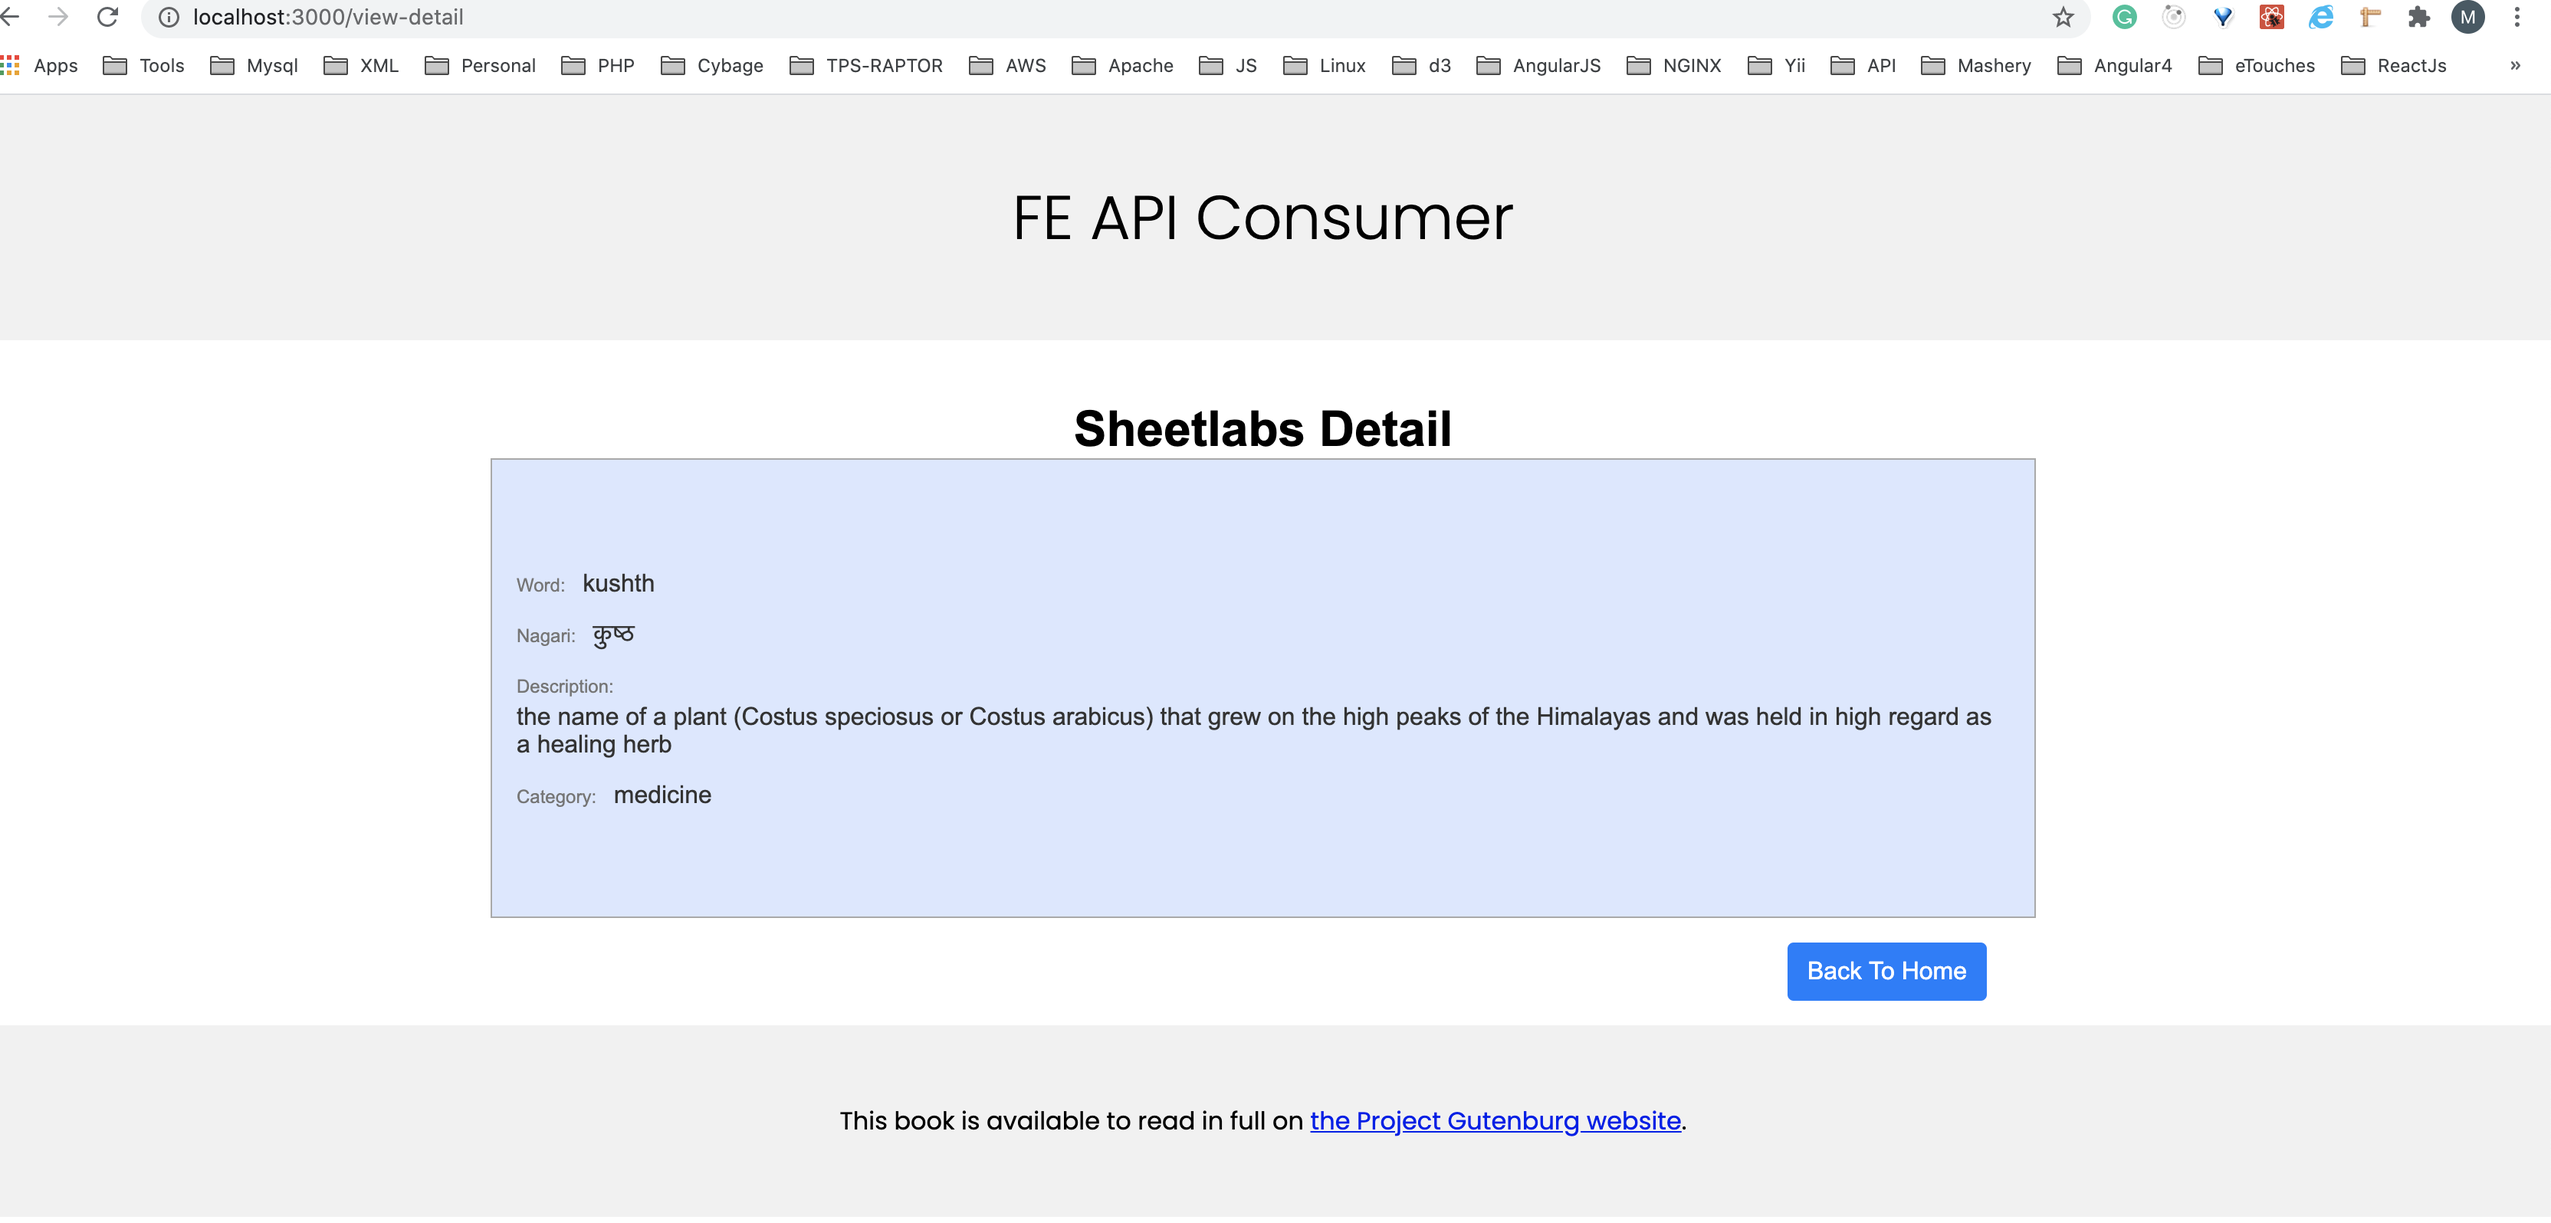
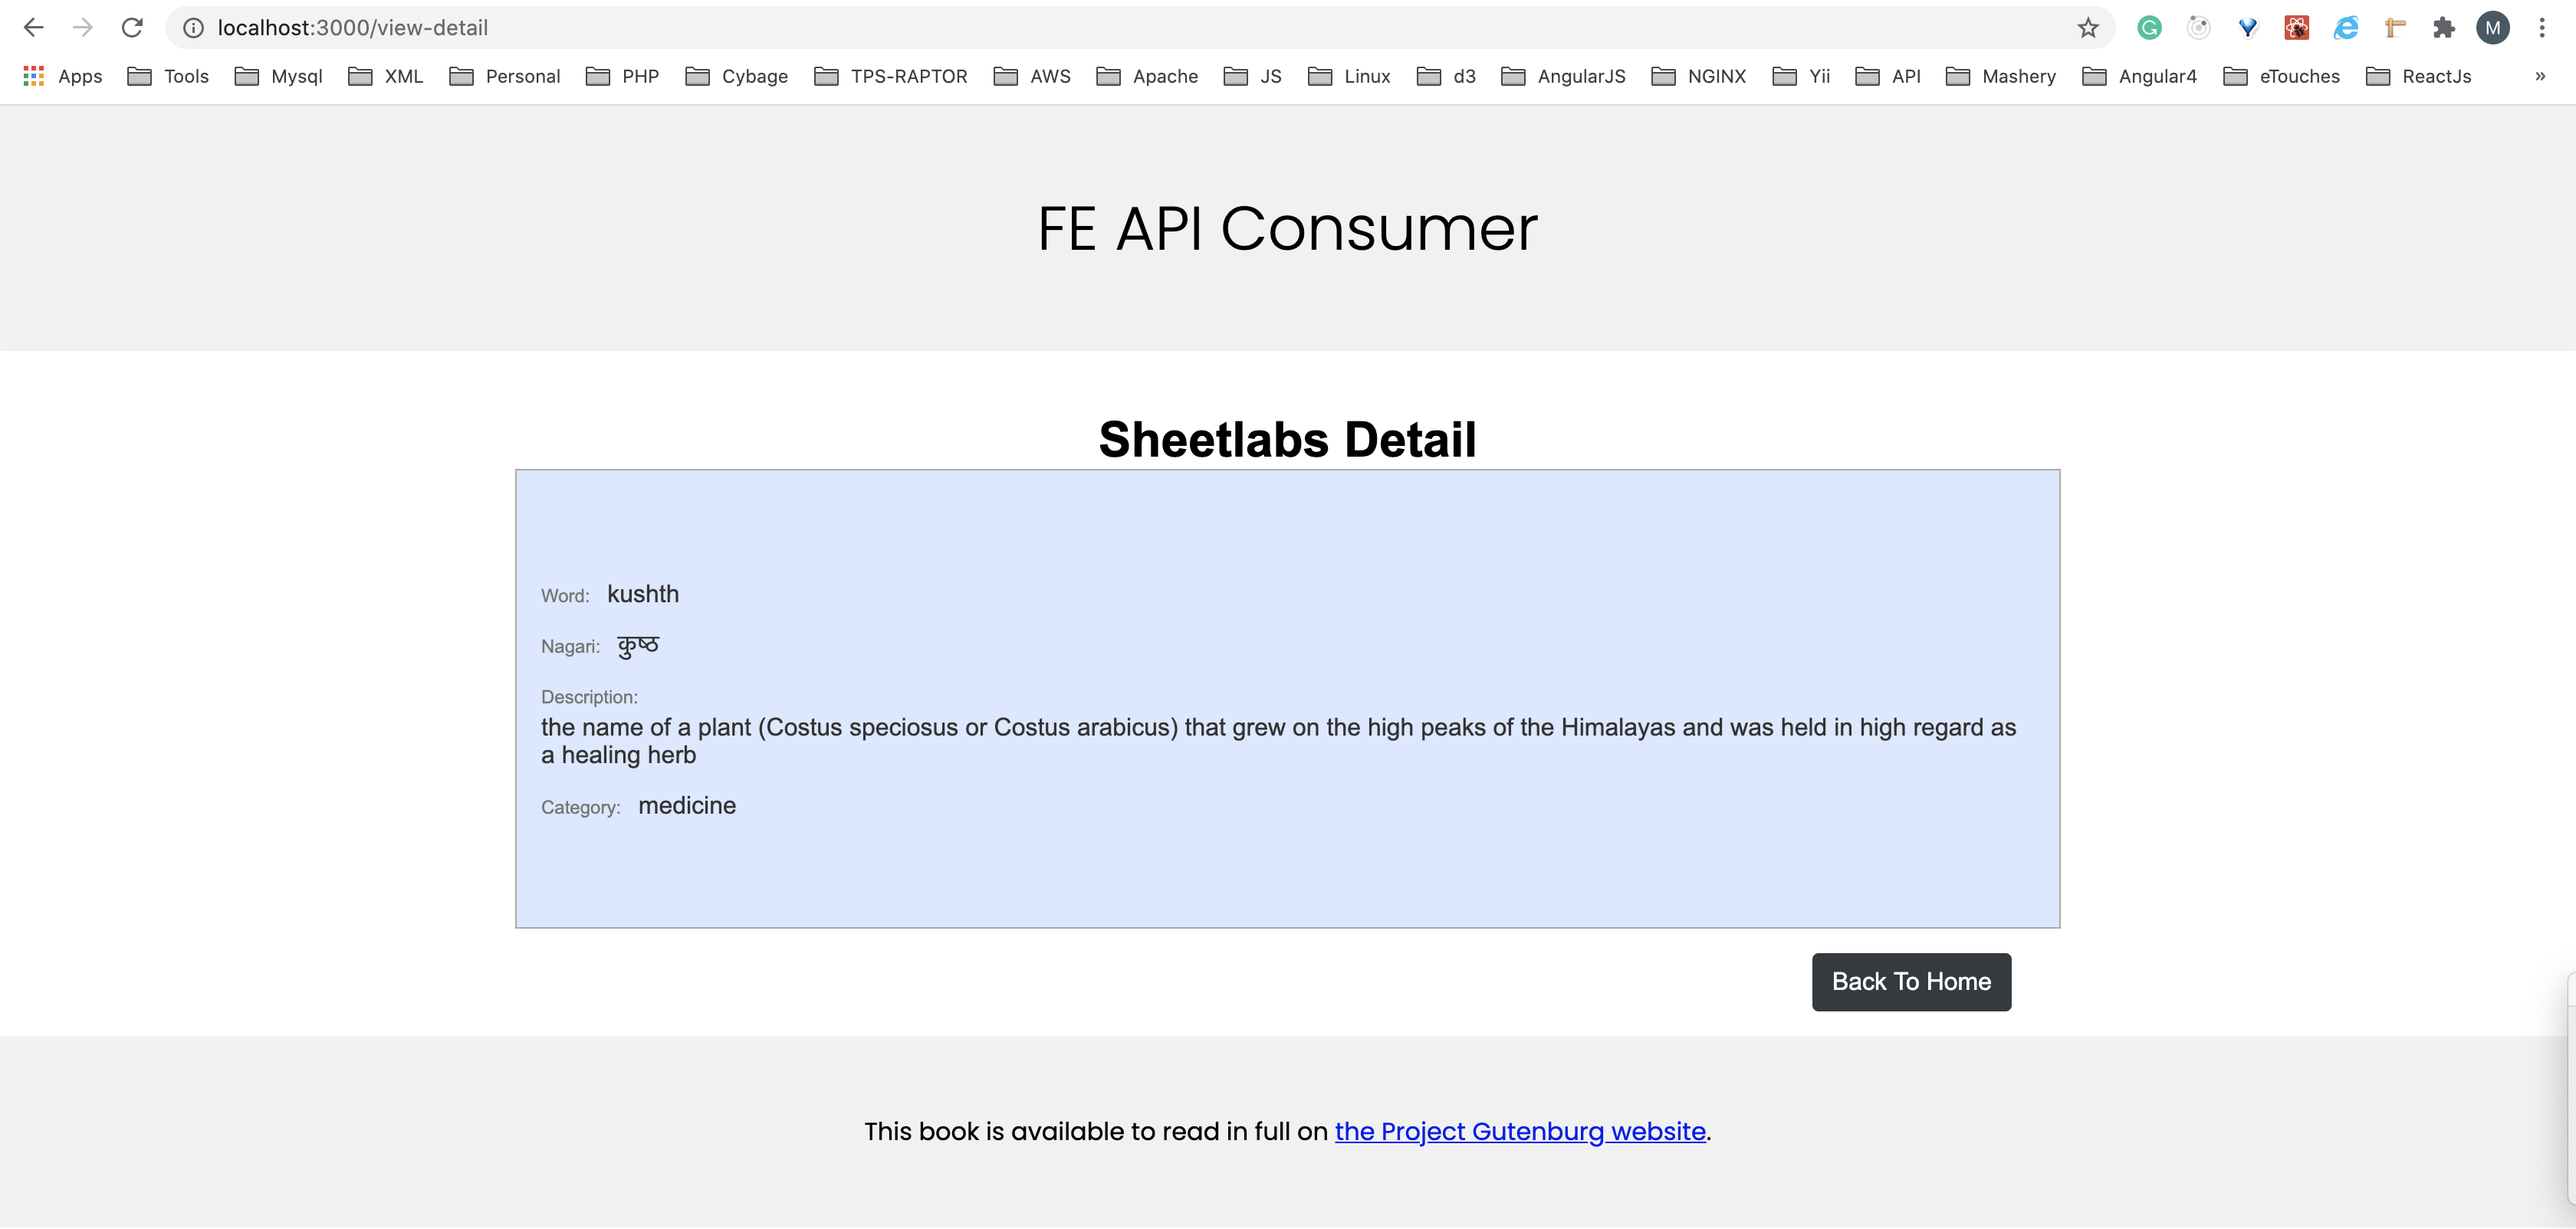
feat(API Consumer) - updated css

diff --git a/src/components/ViewDetail/ViewDetail.scss b/src/components/ViewDetail/ViewDetail.scss
@@ -40,8 +40,8 @@ margin: 8px 0;
 .btnPrimary:hover{border-color:#33b1b7; margin: 10px;padding: 5px;width: 150px;}
 .btn-primary {
   color: #fff;
-  background-color: #007bff;
-  border-color: #007bff;
+  background-color: #343a40;
+  border-color: #343a40;
   cursor: pointer;
   margin: 16px;
 }

diff --git a/README.md b/README.md
@@ -33,6 +33,12 @@ API URL > https://sheetlabs.com/IND/vs?category=medicine
 
 React app should be running on http://localhost:8080/
 
+#Used the latest React features
+lazy & Suspense
+useEffect
+useState
+memo
+
 #Screenshot of pages
 
 ![List](https://github.com/patilgmahadev/react-api-consumer/blob/master/src/images/Home.png)
